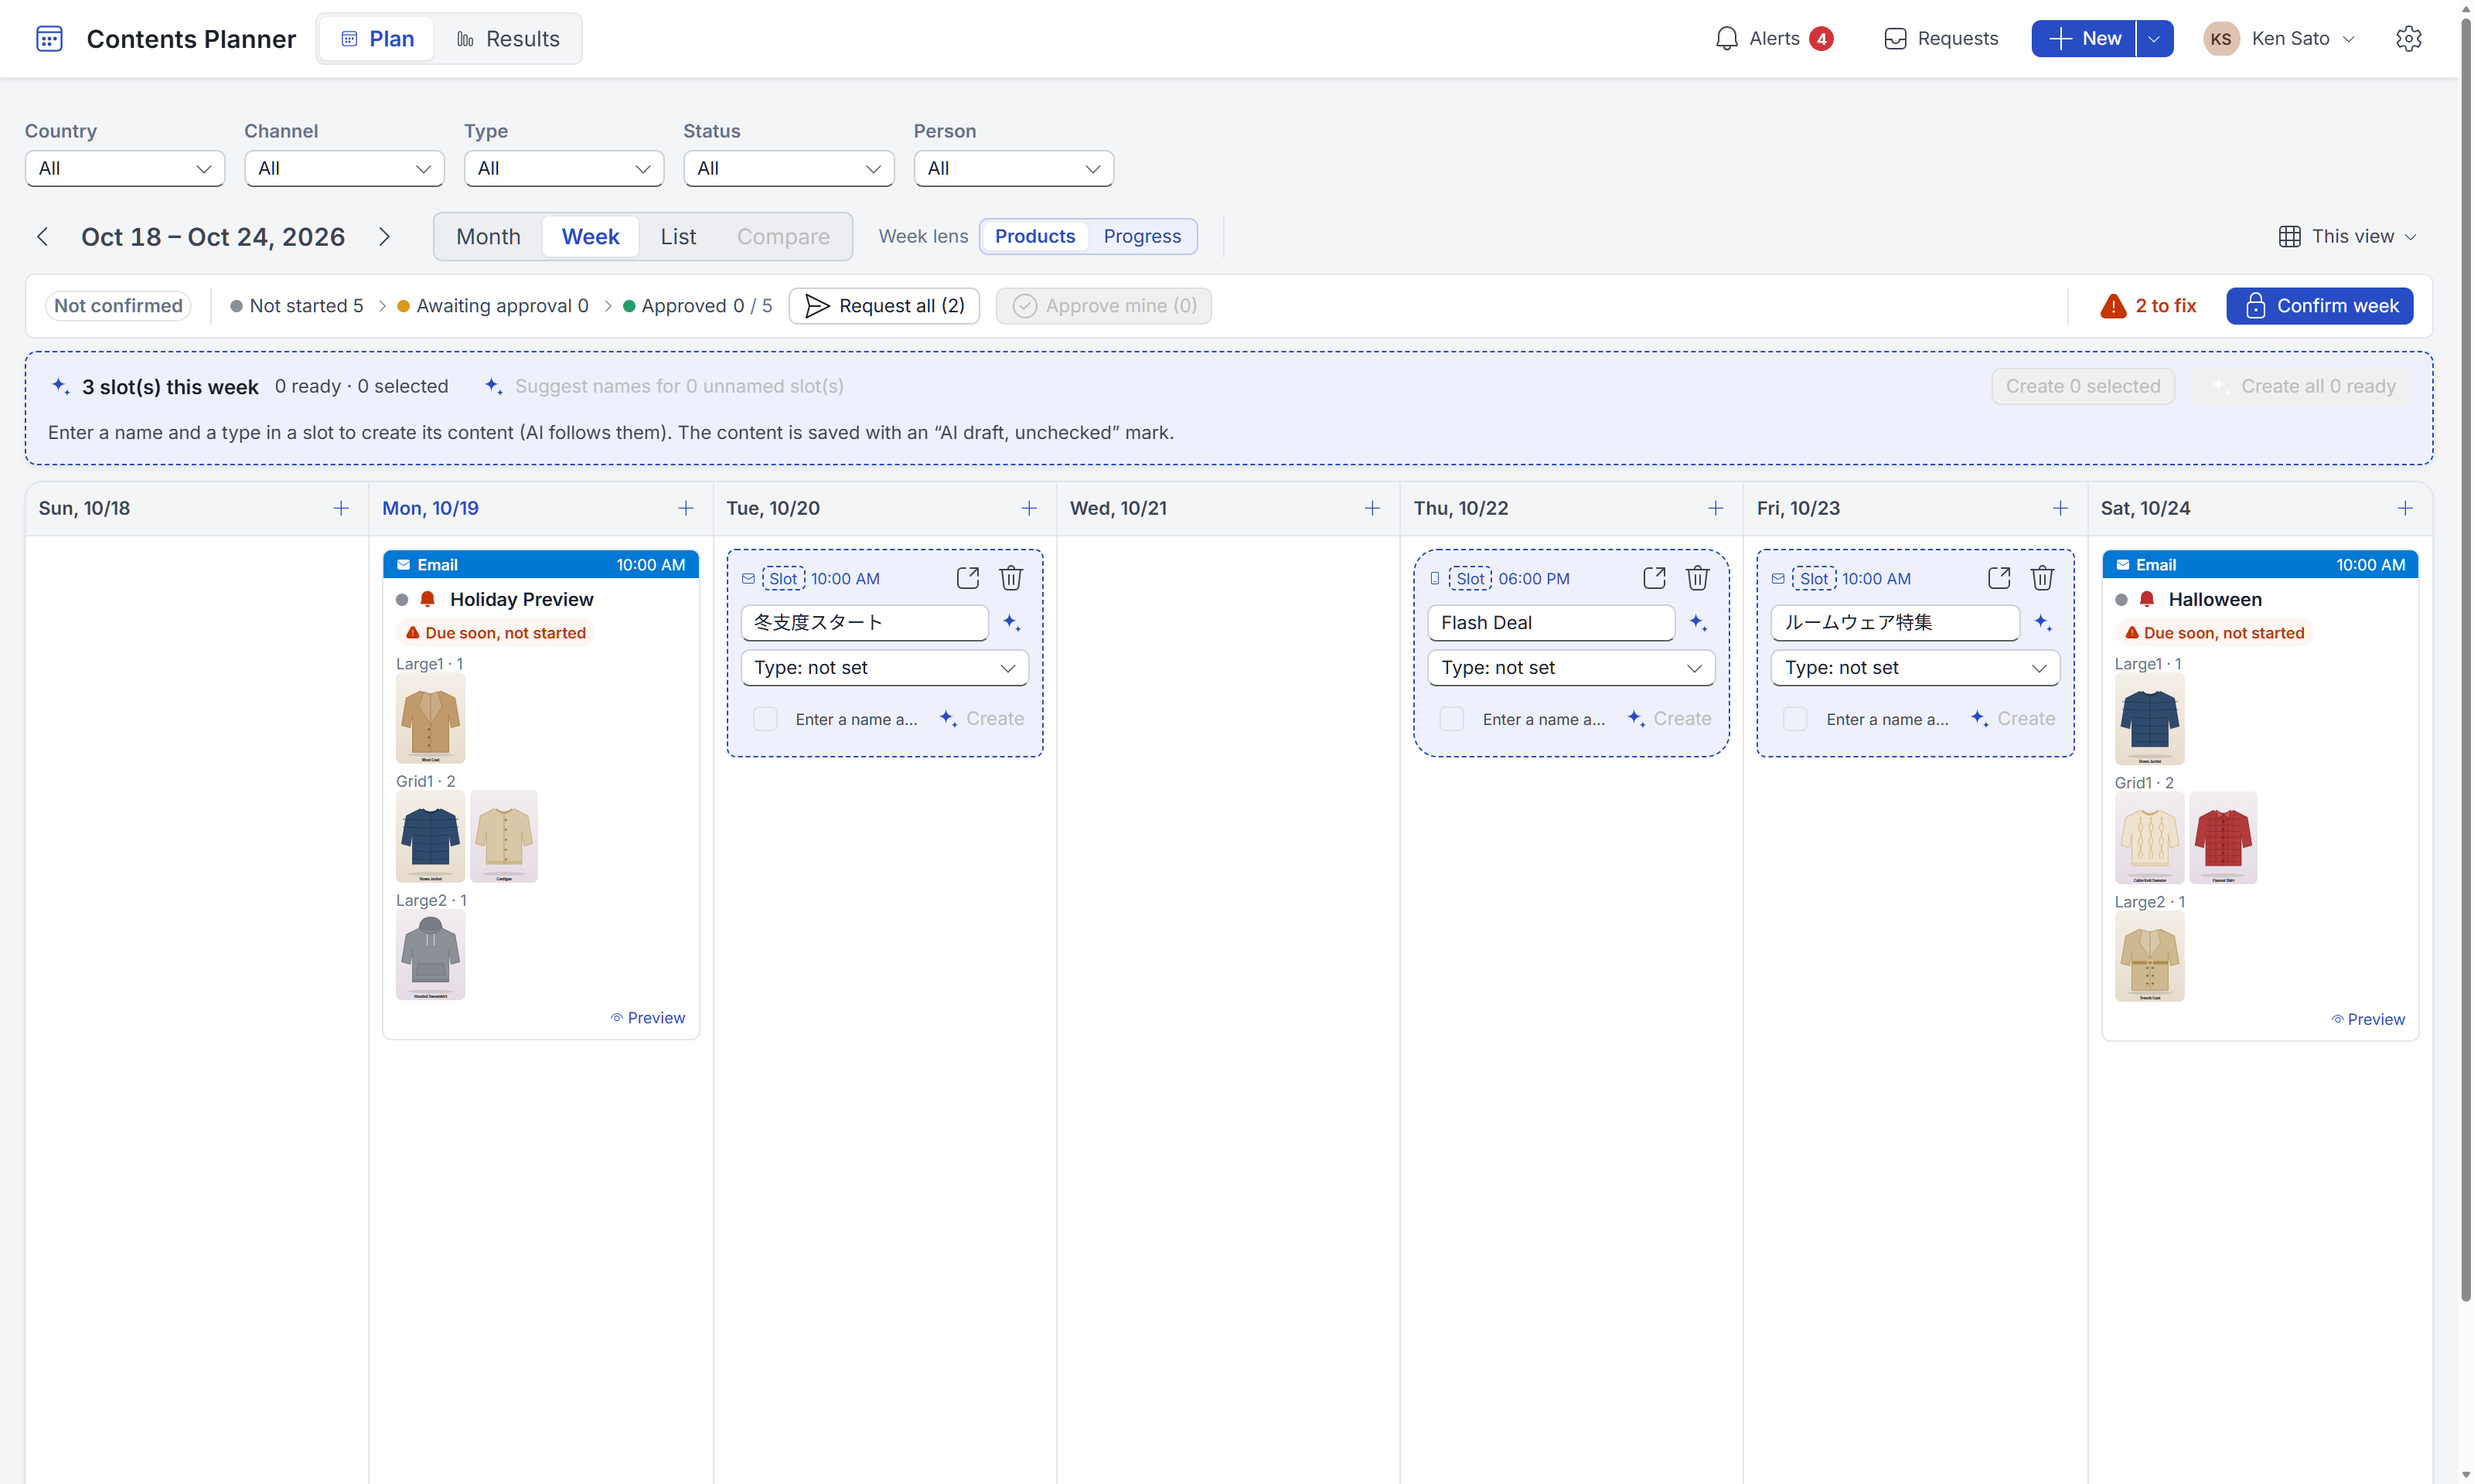
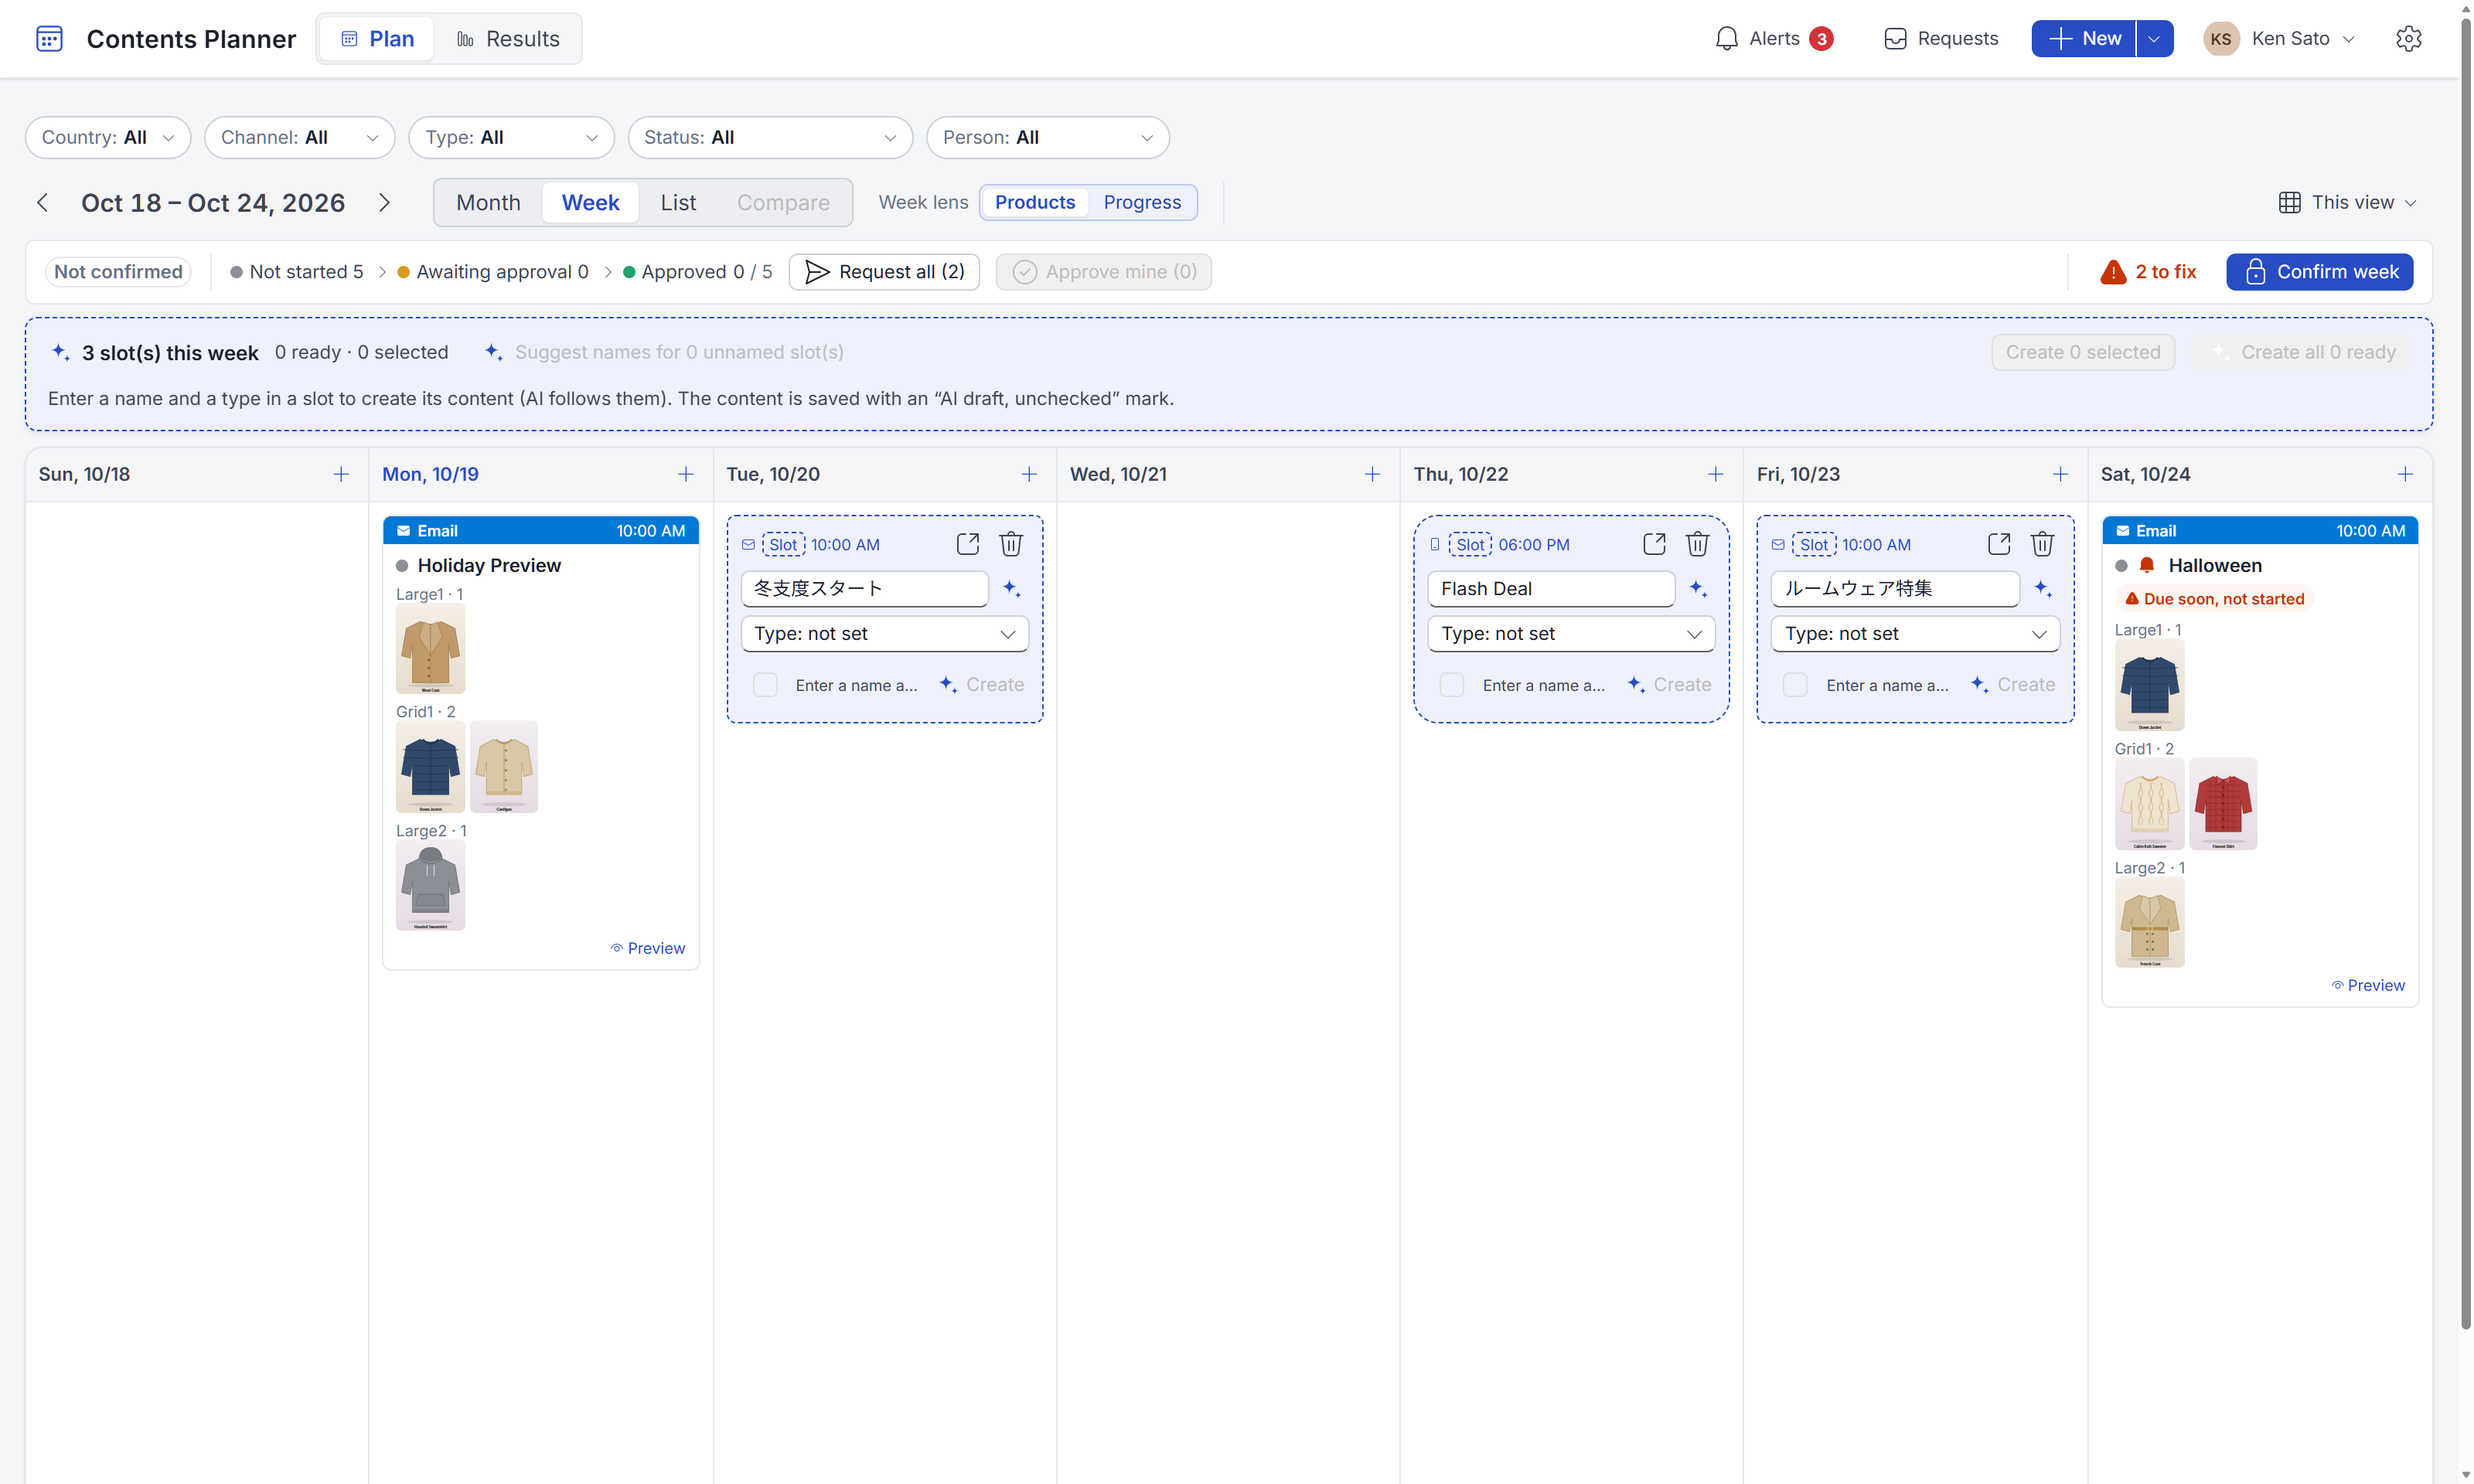
feat: 絞り込みを、名前を中に入れた 1 行の細い札に(高さを半分に。絞り込み中の札は色付き)

diff --git a/src/App.tsx b/src/App.tsx
@@ -2,7 +2,6 @@ import { useCallback, useEffect, useMemo, useState } from 'react'
 import {
   Badge,
   Button,
-  Field,
   Menu,
   MenuButton,
   type MenuButtonProps,
@@ -19,7 +18,6 @@ import {
   MessageBarActions,
   MessageBarBody,
   Portal,
-  Select,
   SplitButton,
   Spinner,
   Tooltip,
@@ -43,6 +41,7 @@ import {
   LayoutColumnTwoRegular,
   DocumentBulletListRegular,
   PeopleTeamRegular,
+  ChevronDownRegular,
   ChevronLeftRegular,
   ChevronRightRegular,
 } from '@fluentui/react-icons'
@@ -207,11 +206,44 @@ const useStyles = makeStyles({
   filterRow: {
     display: 'flex',
     flexWrap: 'wrap',
-    gap: tokens.spacingHorizontalM,
-    marginBottom: tokens.spacingVerticalL,
-    alignItems: 'flex-end',
+    gap: tokens.spacingHorizontalS,
+    marginBottom: tokens.spacingVerticalM,
+    alignItems: 'center',
   },
-  filterField: { minWidth: '130px' },
+  // 絞り込みの札(名前: 値 ▾)。札の全体が押せる
+  filterChip: {
+    position: 'relative',
+    display: 'inline-flex',
+    alignItems: 'center',
+    columnGap: '4px',
+    height: '28px',
+    padding: '0 8px 0 10px',
+    boxSizing: 'border-box',
+    borderRadius: tokens.borderRadiusCircular,
+    border: `1px solid ${tokens.colorNeutralStroke1}`,
+    backgroundColor: tokens.colorNeutralBackground1,
+    fontSize: tokens.fontSizeBase200,
+    color: tokens.colorNeutralForeground1,
+    cursor: 'pointer',
+    ':hover': { backgroundColor: tokens.colorNeutralBackground1Hover },
+    ':focus-within': { outline: `2px solid ${tokens.colorBrandStroke1}`, outlineOffset: '1px' },
+  },
+  // 「すべて」以外を選んでいる(絞り込み中)
+  filterChipOn: { border: `1px solid ${tokens.colorBrandStroke1}`, backgroundColor: tokens.colorBrandBackground2, color: tokens.colorBrandForeground1, ':hover': { backgroundColor: tokens.colorBrandBackground2Hover } },
+  filterChipLabel: { color: tokens.colorNeutralForeground3, whiteSpace: 'nowrap' },
+  filterChipSelect: {
+    appearance: 'none',
+    border: 'none',
+    background: 'transparent',
+    padding: '0 18px 0 0',
+    margin: 0,
+    font: 'inherit',
+    fontWeight: tokens.fontWeightSemibold,
+    color: 'inherit',
+    cursor: 'pointer',
+    outline: 'none',
+  },
+  filterChipChevron: { position: 'absolute', right: '8px', fontSize: '12px', pointerEvents: 'none', color: tokens.colorNeutralForeground3 },
   monthRow: {
     display: 'flex',
     flexWrap: 'wrap',
@@ -294,15 +326,18 @@ function FilterSelect({ label, value, options, onChange }: {
 }) {
   const styles = useStyles()
   const t = useT()
+  // 名前を札の中に入れた、1 行の細い絞り込み(名前を上に置くと、2 行分の高さを取るため)。「すべて」以外を選んでいる札は、色を付けて目立たせる
   return (
-    <Field label={label} size="small" className={styles.filterField}>
-      <Select size="small" value={value} onChange={(_, d) => onChange(d.value)}>
+    <label className={mergeClasses(styles.filterChip, value !== '' && styles.filterChipOn)}>
+      <span className={styles.filterChipLabel}>{label}:</span>
+      <select className={styles.filterChipSelect} value={value} onChange={(e) => onChange(e.target.value)} aria-label={label}>
         <option value="">{t('すべて', 'All')}</option>
         {options.map((o) => (
           <option key={o.value} value={String(o.value)}>{optionLabel(o.label)}</option>
         ))}
-      </Select>
-    </Field>
+      </select>
+      <ChevronDownRegular className={styles.filterChipChevron} aria-hidden />
+    </label>
   )
 }
 

diff --git a/docs/FEATURES.md b/docs/FEATURES.md
@@ -41,7 +41,7 @@
 
 - ヘッダー: アプリ名、**[計画 | 結果]** の切り替え、「**アラート**」(未対応の件数。在庫切れがあれば赤)、「**依頼**」(自分宛ての承認の依頼)、「**＋ 新規作成 ▾**」(本体で 1 本作る。▾ から「この週の枠を作る」(5.1.1))、「**あなた**」(履歴・依頼・承認に残す人)、**⚙**(システム全体の設定: テンプレートの管理・ユーザーと承認グループ・方針と決まり・BigQuery からの取り込み・データと画像の書き出し・言語・開いたとき自動で下書き)。
 - ツールバー(計画と結果で共通。切り替えても、期間・見せ方・絞り込みはそのまま):
-  - 絞り込み: **国 / チャネル / 種別 / ステータス / 担当**。担当は、企画・制作の担当のどちらか(5.13 も)。
+  - 絞り込み: **国 / チャネル / 種別 / ステータス / 担当**。名前を札の中に入れた 1 行の細い札(「国: すべて ▾」)で、すべて見えたまま。「すべて」以外を選んでいる札は、色が付く。担当は、企画・制作の担当のどちらか(5.13 も)。
   - 期間: ‹ › で移動。期間の文字(例: 2026年10月)を押すと**ミニカレンダー**が開き、月・週・日へ移れる。
   - 見せ方: **[月 | 週 | 一覧 | 比べる]**(「比べる」は結果の面だけ)。週のときは「週の見方」(**商品 / 進み具合**)。
   - ツールバーの右端に「**この画面 ▾**」: いま見ているものへの操作をまとめたメニュー(どの面・見せ方でも同じ位置)。計画: まとめて AI で下書き(週の表示: この週。月・一覧: この月の空いている週 = 配信がいちばん少ない確定前の週に移って始める)・配信を CSV で書き出す(表示中の月・週)・週の資料を PDF で書き出す・この週の承認の履歴(週の表示のとき)・表示する列(一覧のとき)。結果: 結果の CSV の書き出し・結果の取り込み・取り込みの見本・AI でテーマの種類を分ける。
